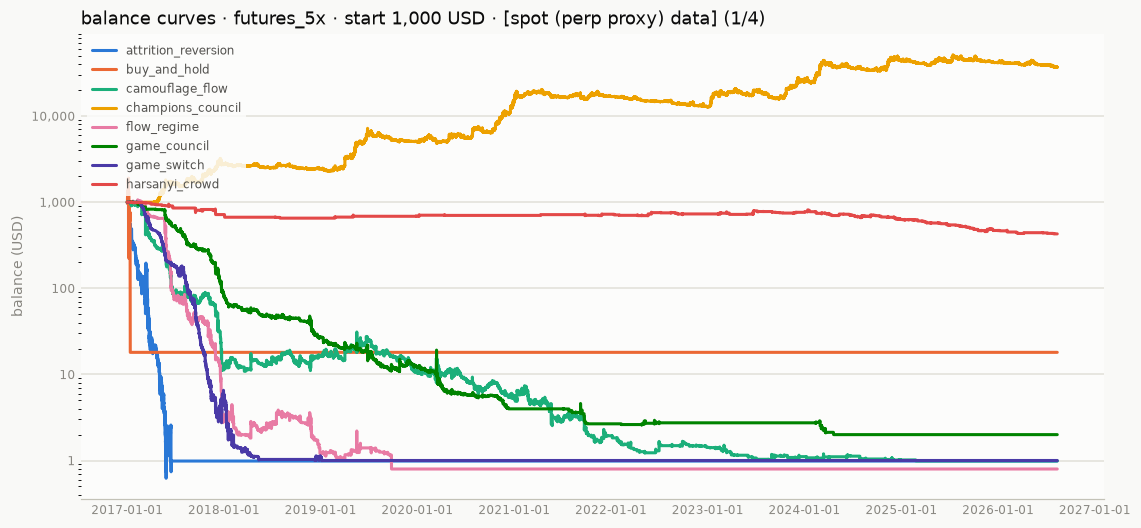
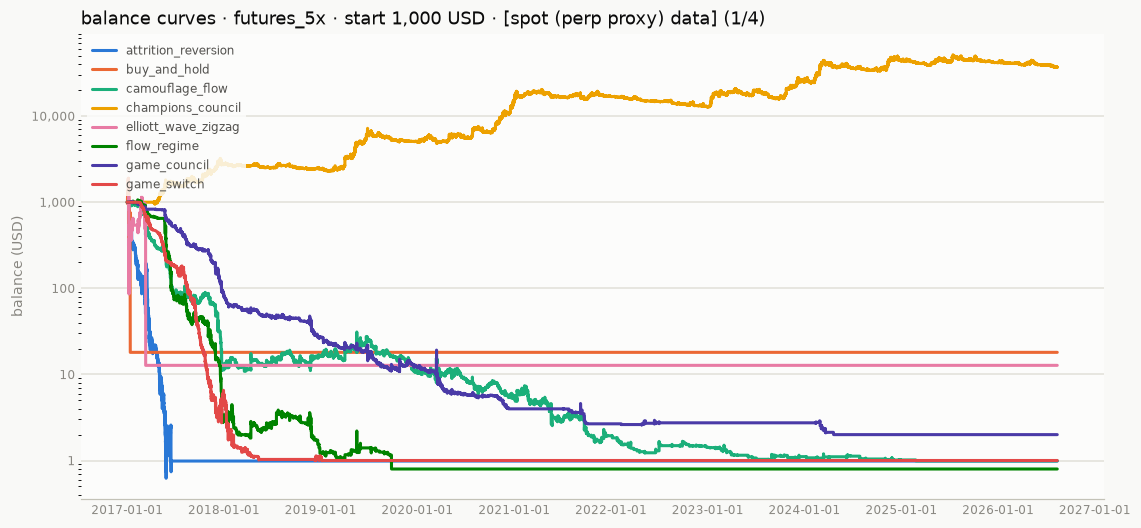
tradebot run: regenerate comparison table for elliott_wave_zigzag (R-156)
Full matrix, both markets, $1,000 start. elliott_wave_zigzag lands at
#10/26 on spot ($5,027) and near the bottom on futures_5x ($12.75,
liquidated) -- registered as a documented negative result per B-10,
independent of rank. No other row changed.

Changed region(s): [[0.092, 0.2121, 0.9202, 0.9091], [0.8282, 0.4242, 0.9202, 0.4545]]

diff --git a/reports/comparison.md b/reports/comparison.md
@@ -17,30 +17,31 @@ Every comparison against `buy_and_hold` carries a 95% paired block-bootstrap int
 | 7 | [buy_and_hold](../src/tradebot/strategies/buy_and_hold.py) | 🟢 **$66.0K** | 💀 $18.05 | 1 | 📈 $65.0K | 84% ⚠ | benchmark | benchmark |
 | 8 | [champions_council](../src/tradebot/strategies/champions_council.py) | 🟢 $19.3K | 🟢 **$36.8K** | 261 | 📈 $35.8K | 37% | ≈ -1.20 [-4.06, +1.81] | ▲ -49.5pp [-54.7, -19.0] |
 | 9 | [hedge_experts](../src/tradebot/strategies/hedge_experts.py) | 🟢 **$13.3K** | 🔴 $258 | 2,044 | 📈 $12.3K | 59% ⚠ | ≈ -1.57 [-4.01, +0.96] | ▲ -24.1pp [-39.1, -3.0] |
-| 10 | [replicator_book](../src/tradebot/strategies/replicator_book.py) | 🟢 **$2,330** | 🔴 $10.58 | 713 | 📈 $1,330 | 38% | ≈ -3.31 [-6.86, +0.28] | ▲ -47.1pp [-57.9, -20.7] |
-| 11 | [universal_kelly](../src/tradebot/strategies/universal_kelly.py) | 🟢 **$1,276** | 🟢 $1,227 | 9 | 📈 $276 | 7% | ≈ -3.91 [-8.39, +0.44] | ▲ -76.6pp [-89.1, -52.9] |
-| 12 | [harsanyi_crowd](../src/tradebot/strategies/harsanyi_crowd.py) | 🔴 **$888** | 🔴 $429 | 91 | 📉 -$112 | 11% | ≈ -4.28 [-8.88, +0.23] | ▲ -71.9pp [-85.6, -46.0] |
-| 13 | [overshoot_fade](../src/tradebot/strategies/overshoot_fade.py) | 🔴 **$662** | 🔴 $33.52 | 189 | 📉 -$338 | 37% | ▼ -4.57 [-9.13, -0.07] | ▲ -46.6pp [-68.5, -19.6] |
-| 14 | [camouflage_flow](../src/tradebot/strategies/camouflage_flow.py) | 🔴 **$548** | 🔴 $0.99 | 802 | 📉 -$452 | 53% ⚠ | ▼ -4.76 [-9.23, -0.29] | ▲ -31.4pp [-57.7, -2.5] |
-| 15 | [stealth_trend](../src/tradebot/strategies/stealth_trend.py) | 🔴 **$465** | 🔴 $0.38 | 1,605 | 📉 -$535 | 55% ⚠ | ▼ -4.92 [-9.26, -0.76] | ≈ -29.0pp [-43.9, +12.1] |
-| 16 | [flow_regime](../src/tradebot/strategies/flow_regime.py) | 🔴 **$447** | 🔴 $0.80 | 1,184 | 📉 -$553 | 56% ⚠ | ▼ -4.96 [-9.43, -0.54] | ≈ -27.3pp [-47.2, +6.3] |
-| 17 | [game_council](../src/tradebot/strategies/game_council.py) | 🔴 **$284** | 🔴 $2.00 | 2,541 | 📉 -$716 | 72% ⚠ | ▼ -5.42 [-9.97, -0.95] | ≈ -11.5pp [-25.9, +12.4] |
-| 18 | [minority_oracle](../src/tradebot/strategies/minority_oracle.py) | 🔴 **$53.36** | 🔴 $3.83 | 9,039 | 📉 -$947 | 95% ⚠ | ▼ -7.09 [-11.60, -2.52] | ≈ +11.5pp [-3.8, +35.9] |
-| 19 | [game_switch](../src/tradebot/strategies/game_switch.py) | 🔴 **$5.00** | 🔴 $1.00 | 6,672 | 📉 -$995 | 99% ⚠ | ▼ -9.45 [-15.38, -4.06] | ▼ +16.3pp [+1.0, +39.3] |
-| 20 | [regret_grid](../src/tradebot/strategies/regret_grid.py) | 🔴 **$5.00** | 🔴 $1.00 | 3,461 | 📉 -$995 | 100% ⚠ | ▼ -9.46 [-16.20, -3.49] | ▼ +16.3pp [+0.9, +39.9] |
-| 21 | [tft_trend](../src/tradebot/strategies/tft_trend.py) | 🔴 **$4.99** | 🔴 $1.00 | 2,538 | 📉 -$995 | 100% ⚠ | ▼ -9.46 [-14.88, -4.58] | ▼ +16.3pp [+3.0, +39.9] |
-| 22 | [macd_cross](../src/tradebot/strategies/macd_cross.py) | 🔴 **$4.99** | 🔴 $1.00 | 4,301 | 📉 -$995 | 100% ⚠ | ▼ -9.47 [-16.93, -3.21] | ≈ +16.4pp [-1.4, +40.0] |
-| 23 | [macd_rsi](../src/tradebot/strategies/macd_rsi.py) | 🔴 **$4.96** | 🔴 $0.94 | 2,454 | 📉 -$995 | 100% ⚠ | ▼ -9.46 [-15.00, -4.40] | ▼ +16.3pp [+2.6, +39.6] |
-| 24 | [attrition_reversion](../src/tradebot/strategies/attrition_reversion.py) | 🔴 **$4.94** | 🔴 $0.99 | 2,930 | 📉 -$995 | 100% ⚠ | ▼ -9.47 [-14.55, -4.69] | ▼ +16.3pp [+3.1, +39.1] |
-| 25 | [rsi_reversion](../src/tradebot/strategies/rsi_reversion.py) | 🔴 **$4.85** | 🔴 $0.77 | 4,464 | 📉 -$995 | 100% ⚠ | ▼ -9.49 [-13.24, -5.78] | ▼ +16.7pp [+3.5, +39.8] |
+| 10 | [elliott_wave_zigzag](../src/tradebot/strategies/elliott_wave_zigzag.py) | 🟢 **$5,027** | 💀 $12.75 | 162 | 📈 $4,027 | 44% | ≈ -2.54 [-6.51, +1.49] | ≈ -43.8pp [-50.7, +2.9] |
+| 11 | [replicator_book](../src/tradebot/strategies/replicator_book.py) | 🟢 **$2,330** | 🔴 $10.58 | 713 | 📈 $1,330 | 38% | ≈ -3.31 [-6.86, +0.28] | ▲ -47.1pp [-57.9, -20.7] |
+| 12 | [universal_kelly](../src/tradebot/strategies/universal_kelly.py) | 🟢 **$1,276** | 🟢 $1,227 | 9 | 📈 $276 | 7% | ≈ -3.91 [-8.39, +0.44] | ▲ -76.6pp [-89.1, -52.9] |
+| 13 | [harsanyi_crowd](../src/tradebot/strategies/harsanyi_crowd.py) | 🔴 **$888** | 🔴 $429 | 91 | 📉 -$112 | 11% | ≈ -4.28 [-8.88, +0.23] | ▲ -71.9pp [-85.6, -46.0] |
+| 14 | [overshoot_fade](../src/tradebot/strategies/overshoot_fade.py) | 🔴 **$662** | 🔴 $33.52 | 189 | 📉 -$338 | 37% | ▼ -4.57 [-9.13, -0.07] | ▲ -46.6pp [-68.5, -19.6] |
+| 15 | [camouflage_flow](../src/tradebot/strategies/camouflage_flow.py) | 🔴 **$548** | 🔴 $0.99 | 802 | 📉 -$452 | 53% ⚠ | ▼ -4.76 [-9.23, -0.29] | ▲ -31.4pp [-57.7, -2.5] |
+| 16 | [stealth_trend](../src/tradebot/strategies/stealth_trend.py) | 🔴 **$465** | 🔴 $0.38 | 1,605 | 📉 -$535 | 55% ⚠ | ▼ -4.92 [-9.26, -0.76] | ≈ -29.0pp [-43.9, +12.1] |
+| 17 | [flow_regime](../src/tradebot/strategies/flow_regime.py) | 🔴 **$447** | 🔴 $0.80 | 1,184 | 📉 -$553 | 56% ⚠ | ▼ -4.96 [-9.43, -0.54] | ≈ -27.3pp [-47.2, +6.3] |
+| 18 | [game_council](../src/tradebot/strategies/game_council.py) | 🔴 **$284** | 🔴 $2.00 | 2,541 | 📉 -$716 | 72% ⚠ | ▼ -5.42 [-9.97, -0.95] | ≈ -11.5pp [-25.9, +12.4] |
+| 19 | [minority_oracle](../src/tradebot/strategies/minority_oracle.py) | 🔴 **$53.36** | 🔴 $3.83 | 9,039 | 📉 -$947 | 95% ⚠ | ▼ -7.09 [-11.60, -2.52] | ≈ +11.5pp [-3.8, +35.9] |
+| 20 | [game_switch](../src/tradebot/strategies/game_switch.py) | 🔴 **$5.00** | 🔴 $1.00 | 6,672 | 📉 -$995 | 99% ⚠ | ▼ -9.45 [-15.38, -4.06] | ▼ +16.3pp [+1.0, +39.3] |
+| 21 | [regret_grid](../src/tradebot/strategies/regret_grid.py) | 🔴 **$5.00** | 🔴 $1.00 | 3,461 | 📉 -$995 | 100% ⚠ | ▼ -9.46 [-16.20, -3.49] | ▼ +16.3pp [+0.9, +39.9] |
+| 22 | [tft_trend](../src/tradebot/strategies/tft_trend.py) | 🔴 **$4.99** | 🔴 $1.00 | 2,538 | 📉 -$995 | 100% ⚠ | ▼ -9.46 [-14.88, -4.58] | ▼ +16.3pp [+3.0, +39.9] |
+| 23 | [macd_cross](../src/tradebot/strategies/macd_cross.py) | 🔴 **$4.99** | 🔴 $1.00 | 4,301 | 📉 -$995 | 100% ⚠ | ▼ -9.47 [-16.93, -3.21] | ≈ +16.4pp [-1.4, +40.0] |
+| 24 | [macd_rsi](../src/tradebot/strategies/macd_rsi.py) | 🔴 **$4.96** | 🔴 $0.94 | 2,454 | 📉 -$995 | 100% ⚠ | ▼ -9.46 [-15.00, -4.40] | ▼ +16.3pp [+2.6, +39.6] |
+| 25 | [attrition_reversion](../src/tradebot/strategies/attrition_reversion.py) | 🔴 **$4.94** | 🔴 $0.99 | 2,930 | 📉 -$995 | 100% ⚠ | ▼ -9.47 [-14.55, -4.69] | ▼ +16.3pp [+3.1, +39.1] |
+| 26 | [rsi_reversion](../src/tradebot/strategies/rsi_reversion.py) | 🔴 **$4.85** | 🔴 $0.77 | 4,464 | 📉 -$995 | 100% ⚠ | ▼ -9.49 [-13.24, -5.78] | ▼ +16.7pp [+3.5, +39.8] |
 
 _Balances from a $1,000 start · bold = the strategy's better market · 🟢 profit · 🔴 loss · 💀 liquidated · ⚠ drawdown over 50%. Trades, profit and max drawdown describe that market._
 
 _The last two columns are the only ones that answer **"is this difference real?"** Both are paired differences against `buy_and_hold` on spot over the full period (3,510 daily observations), each with a 95% stationary block-bootstrap interval — 30-day mean block, 2,000 resamples, the identical resample applied to both strategies so the market's own variance cancels instead of swamping the gap. ▲ / ▼ = the interval excludes zero and the strategy is better / worse; **≈ = it contains zero, so the difference from simply holding is not established**._
 
-_**Growth**, not Sharpe, because final balance is what this table ranks by — and the two disagree. **spot**, because leveraged buy-and-hold is a stress case rather than a benchmark: it is liquidated in early 2017, and an account that cannot draw down further is not something to draw down less than (R-22). On this run **0 of 24** strategies are distinguishably better than holding on growth; the drawdown column is where the project's findings actually live._
+_**Growth**, not Sharpe, because final balance is what this table ranks by — and the two disagree. **spot**, because leveraged buy-and-hold is a stress case rather than a benchmark: it is liquidated in early 2017, and an account that cannot draw down further is not something to draw down less than (R-22). On this run **0 of 25** strategies are distinguishably better than holding on growth; the drawdown column is where the project's findings actually live._
 
-_Adjacent steps down this ranking that survive the same test: **3 of 24** on spot · **2 of 24** on futures_5x. The order is a display convention, not a result — read the table as buckets._
+_Adjacent steps down this ranking that survive the same test: **3 of 25** on spot · **2 of 25** on futures_5x. The order is a display convention, not a result — read the table as buckets._
 
 _Regenerate with `python scripts/inference.py`; the numbers live in `reports/inference/bootstrap.csv`._
 
@@ -62,6 +63,7 @@ _Regenerate with `python scripts/inference.py`; the numbers live in `reports/inf
 | [hedge_experts](../src/tradebot/strategies/hedge_experts.py) | $258 | -$742 | -74.25% | 4103 | 11.4 | $53.0K | -$15.9K | 99.9 | 0.96 | 99.6 | $52.1K |  | ☠ +1.14 [+0.15, +1.88] | ☠ +0.9pp [-1.6, +100.0] | ☠ +2.82 [-10.84, +18.21] | 0.62 |
 | [overshoot_fade](../src/tradebot/strategies/overshoot_fade.py) | $33.52 | -$966 | -96.65% | 341 | 57.2 | $71.14 | -$115 | 97.0 | -1.16 | 0.3 | $309 |  | ☠ -0.92 [-1.75, -0.17] | ☠ -2.1pp [-14.5, +99.3] | ☠ +0.78 [-4.96, +11.00] | 0.53 |
 | [buy_and_hold](../src/tradebot/strategies/buy_and_hold.py) | $18.05 | -$982 | -98.20% | 1 | 0.0 | -$982 | -$982 | 99.0 | -0.19 | 0.3 | $4.50 | yes | benchmark | benchmark | benchmark | 0.00 |
+| [elliott_wave_zigzag](../src/tradebot/strategies/elliott_wave_zigzag.py) | $12.75 | -$987 | -98.73% | 5 | 40.0 | $405 | -$694 | 98.9 | -0.04 | 0.9 | $17.31 | yes | ☠ +0.07 [-0.56, +0.68] | ☠ -0.2pp [-37.2, +100.0] | ☠ -0.19 [-11.50, +10.42] | 0.45 |
 | [replicator_book](../src/tradebot/strategies/replicator_book.py) | $10.58 | -$989 | -98.94% | 1427 | 24.4 | $1,847 | -$681 | 99.8 | 0.33 | 99.6 | $2,215 |  | ☠ +0.54 [-0.24, +1.13] | ☠ +0.7pp [-4.9, +100.0] | ☠ -0.38 [-9.36, +11.50] | 0.43 |
 | [minority_oracle](../src/tradebot/strategies/minority_oracle.py) | $3.83 | -$996 | -99.62% | 7065 | 25.4 | $11.19 | -$10.12 | 99.6 | -8.29 | 0.9 | $1,180 |  | ☠ -4.70 [-6.42, -3.15] | ☠ +0.6pp [-4.9, +100.0] | ☠ -1.39 [-8.39, +9.13] | 0.33 |
 | [game_council](../src/tradebot/strategies/game_council.py) | $2.00 | -$998 | -99.80% | 2494 | 33.8 | $17.63 | -$55.75 | 99.8 | -1.66 | 2.5 | $297 |  | ☠ -1.84 [-2.93, -1.10] | ☠ +0.8pp [-1.4, +100.0] | ☠ -2.04 [-8.58, +8.12] | 0.27 |
@@ -89,6 +91,7 @@ _Regenerate with `python scripts/inference.py`; the numbers live in `reports/inf
 | [kelly_regime_ev](../src/tradebot/strategies/kelly_regime_ev.py) | $40.9K | $39.9K | +3986.30% | 81 | 25.9 | $15.1K | -$3,482 | 44.4 | 1.31 | 57.4 | $2,403 |  | ≈ +0.37 [-0.07, +0.81] | ▲ -40.0pp [-55.5, -16.3] | ≈ -0.45 [-3.28, +2.58] | 0.39 |
 | [champions_council](../src/tradebot/strategies/champions_council.py) | $19.3K | $18.3K | +1832.14% | 131 | 14.6 | $8,520 | -$1,150 | 34.6 | 1.23 | 87.9 | $4,050 |  | ≈ +0.25 [-0.18, +0.68] | ▲ -49.5pp [-54.7, -19.0] | ≈ -1.20 [-4.06, +1.81] | 0.23 |
 | [hedge_experts](../src/tradebot/strategies/hedge_experts.py) | $13.3K | $12.3K | +1227.66% | 2044 | 7.5 | $11.0K | -$1,469 | 59.3 | 0.87 | 88.0 | $16.7K |  | ≈ -0.07 [-0.42, +0.29] | ▲ -24.1pp [-39.1, -3.0] | ≈ -1.57 [-4.01, +0.96] | 0.11 |
+| [elliott_wave_zigzag](../src/tradebot/strategies/elliott_wave_zigzag.py) | $5,027 | $4,027 | +402.68% | 162 | 54.7 | $1,469 | -$1,026 | 43.6 | 0.63 | 25.7 | $1,089 |  | ≈ -0.31 [-0.99, +0.36] | ≈ -43.8pp [-50.7, +2.9] | ≈ -2.54 [-6.51, +1.49] | 0.11 |
 | [replicator_book](../src/tradebot/strategies/replicator_book.py) | $2,330 | $1,330 | +132.98% | 713 | 26.2 | $451 | -$90.85 | 38.4 | 0.52 | 53.0 | $1,630 |  | ▼ -0.44 [-0.86, -0.06] | ▲ -47.1pp [-57.9, -20.7] | ≈ -3.31 [-6.86, +0.28] | 0.03 |
 | [universal_kelly](../src/tradebot/strategies/universal_kelly.py) | $1,276 | $276 | +27.60% | 9 | 88.9 | $131 | -$6.99 | 7.4 | 0.62 | 22.7 | $1.33 |  | ≈ -0.28 [-0.88, +0.32] | ▲ -76.6pp [-89.1, -52.9] | ≈ -3.91 [-8.39, +0.44] | 0.04 |
 | [harsanyi_crowd](../src/tradebot/strategies/harsanyi_crowd.py) | $888 | -$112 | -11.19% | 91 | 28.6 | $7.93 | -$13.89 | 11.4 | -0.82 | 0.1 | $90.02 |  | ▼ -2.03 [-2.96, -1.02] | ▲ -71.9pp [-85.6, -46.0] | ≈ -4.28 [-8.88, +0.23] | 0.03 |

diff --git a/README.md b/README.md
@@ -193,30 +193,31 @@ _Period: 2017-01-01 to 2026-08-12 (1,010,889 x 5m bars) · data: real, spot (per
 | 7 | [buy_and_hold](src/tradebot/strategies/buy_and_hold.py) | 🟢 **$66.0K** | 💀 $18.05 | 1 | 📈 $65.0K | 84% ⚠ | benchmark | benchmark |
 | 8 | [champions_council](src/tradebot/strategies/champions_council.py) | 🟢 $19.3K | 🟢 **$36.8K** | 261 | 📈 $35.8K | 37% | ≈ -1.20 [-4.06, +1.81] | ▲ -49.5pp [-54.7, -19.0] |
 | 9 | [hedge_experts](src/tradebot/strategies/hedge_experts.py) | 🟢 **$13.3K** | 🔴 $258 | 2,044 | 📈 $12.3K | 59% ⚠ | ≈ -1.57 [-4.01, +0.96] | ▲ -24.1pp [-39.1, -3.0] |
-| 10 | [replicator_book](src/tradebot/strategies/replicator_book.py) | 🟢 **$2,330** | 🔴 $10.58 | 713 | 📈 $1,330 | 38% | ≈ -3.31 [-6.86, +0.28] | ▲ -47.1pp [-57.9, -20.7] |
-| 11 | [universal_kelly](src/tradebot/strategies/universal_kelly.py) | 🟢 **$1,276** | 🟢 $1,227 | 9 | 📈 $276 | 7% | ≈ -3.91 [-8.39, +0.44] | ▲ -76.6pp [-89.1, -52.9] |
-| 12 | [harsanyi_crowd](src/tradebot/strategies/harsanyi_crowd.py) | 🔴 **$888** | 🔴 $429 | 91 | 📉 -$112 | 11% | ≈ -4.28 [-8.88, +0.23] | ▲ -71.9pp [-85.6, -46.0] |
-| 13 | [overshoot_fade](src/tradebot/strategies/overshoot_fade.py) | 🔴 **$662** | 🔴 $33.52 | 189 | 📉 -$338 | 37% | ▼ -4.57 [-9.13, -0.07] | ▲ -46.6pp [-68.5, -19.6] |
-| 14 | [camouflage_flow](src/tradebot/strategies/camouflage_flow.py) | 🔴 **$548** | 🔴 $0.99 | 802 | 📉 -$452 | 53% ⚠ | ▼ -4.76 [-9.23, -0.29] | ▲ -31.4pp [-57.7, -2.5] |
-| 15 | [stealth_trend](src/tradebot/strategies/stealth_trend.py) | 🔴 **$465** | 🔴 $0.38 | 1,605 | 📉 -$535 | 55% ⚠ | ▼ -4.92 [-9.26, -0.76] | ≈ -29.0pp [-43.9, +12.1] |
-| 16 | [flow_regime](src/tradebot/strategies/flow_regime.py) | 🔴 **$447** | 🔴 $0.80 | 1,184 | 📉 -$553 | 56% ⚠ | ▼ -4.96 [-9.43, -0.54] | ≈ -27.3pp [-47.2, +6.3] |
-| 17 | [game_council](src/tradebot/strategies/game_council.py) | 🔴 **$284** | 🔴 $2.00 | 2,541 | 📉 -$716 | 72% ⚠ | ▼ -5.42 [-9.97, -0.95] | ≈ -11.5pp [-25.9, +12.4] |
-| 18 | [minority_oracle](src/tradebot/strategies/minority_oracle.py) | 🔴 **$53.36** | 🔴 $3.83 | 9,039 | 📉 -$947 | 95% ⚠ | ▼ -7.09 [-11.60, -2.52] | ≈ +11.5pp [-3.8, +35.9] |
-| 19 | [game_switch](src/tradebot/strategies/game_switch.py) | 🔴 **$5.00** | 🔴 $1.00 | 6,672 | 📉 -$995 | 99% ⚠ | ▼ -9.45 [-15.38, -4.06] | ▼ +16.3pp [+1.0, +39.3] |
-| 20 | [regret_grid](src/tradebot/strategies/regret_grid.py) | 🔴 **$5.00** | 🔴 $1.00 | 3,461 | 📉 -$995 | 100% ⚠ | ▼ -9.46 [-16.20, -3.49] | ▼ +16.3pp [+0.9, +39.9] |
-| 21 | [tft_trend](src/tradebot/strategies/tft_trend.py) | 🔴 **$4.99** | 🔴 $1.00 | 2,538 | 📉 -$995 | 100% ⚠ | ▼ -9.46 [-14.88, -4.58] | ▼ +16.3pp [+3.0, +39.9] |
-| 22 | [macd_cross](src/tradebot/strategies/macd_cross.py) | 🔴 **$4.99** | 🔴 $1.00 | 4,301 | 📉 -$995 | 100% ⚠ | ▼ -9.47 [-16.93, -3.21] | ≈ +16.4pp [-1.4, +40.0] |
-| 23 | [macd_rsi](src/tradebot/strategies/macd_rsi.py) | 🔴 **$4.96** | 🔴 $0.94 | 2,454 | 📉 -$995 | 100% ⚠ | ▼ -9.46 [-15.00, -4.40] | ▼ +16.3pp [+2.6, +39.6] |
-| 24 | [attrition_reversion](src/tradebot/strategies/attrition_reversion.py) | 🔴 **$4.94** | 🔴 $0.99 | 2,930 | 📉 -$995 | 100% ⚠ | ▼ -9.47 [-14.55, -4.69] | ▼ +16.3pp [+3.1, +39.1] |
-| 25 | [rsi_reversion](src/tradebot/strategies/rsi_reversion.py) | 🔴 **$4.85** | 🔴 $0.77 | 4,464 | 📉 -$995 | 100% ⚠ | ▼ -9.49 [-13.24, -5.78] | ▼ +16.7pp [+3.5, +39.8] |
+| 10 | [elliott_wave_zigzag](src/tradebot/strategies/elliott_wave_zigzag.py) | 🟢 **$5,027** | 💀 $12.75 | 162 | 📈 $4,027 | 44% | ≈ -2.54 [-6.51, +1.49] | ≈ -43.8pp [-50.7, +2.9] |
+| 11 | [replicator_book](src/tradebot/strategies/replicator_book.py) | 🟢 **$2,330** | 🔴 $10.58 | 713 | 📈 $1,330 | 38% | ≈ -3.31 [-6.86, +0.28] | ▲ -47.1pp [-57.9, -20.7] |
+| 12 | [universal_kelly](src/tradebot/strategies/universal_kelly.py) | 🟢 **$1,276** | 🟢 $1,227 | 9 | 📈 $276 | 7% | ≈ -3.91 [-8.39, +0.44] | ▲ -76.6pp [-89.1, -52.9] |
+| 13 | [harsanyi_crowd](src/tradebot/strategies/harsanyi_crowd.py) | 🔴 **$888** | 🔴 $429 | 91 | 📉 -$112 | 11% | ≈ -4.28 [-8.88, +0.23] | ▲ -71.9pp [-85.6, -46.0] |
+| 14 | [overshoot_fade](src/tradebot/strategies/overshoot_fade.py) | 🔴 **$662** | 🔴 $33.52 | 189 | 📉 -$338 | 37% | ▼ -4.57 [-9.13, -0.07] | ▲ -46.6pp [-68.5, -19.6] |
+| 15 | [camouflage_flow](src/tradebot/strategies/camouflage_flow.py) | 🔴 **$548** | 🔴 $0.99 | 802 | 📉 -$452 | 53% ⚠ | ▼ -4.76 [-9.23, -0.29] | ▲ -31.4pp [-57.7, -2.5] |
+| 16 | [stealth_trend](src/tradebot/strategies/stealth_trend.py) | 🔴 **$465** | 🔴 $0.38 | 1,605 | 📉 -$535 | 55% ⚠ | ▼ -4.92 [-9.26, -0.76] | ≈ -29.0pp [-43.9, +12.1] |
+| 17 | [flow_regime](src/tradebot/strategies/flow_regime.py) | 🔴 **$447** | 🔴 $0.80 | 1,184 | 📉 -$553 | 56% ⚠ | ▼ -4.96 [-9.43, -0.54] | ≈ -27.3pp [-47.2, +6.3] |
+| 18 | [game_council](src/tradebot/strategies/game_council.py) | 🔴 **$284** | 🔴 $2.00 | 2,541 | 📉 -$716 | 72% ⚠ | ▼ -5.42 [-9.97, -0.95] | ≈ -11.5pp [-25.9, +12.4] |
+| 19 | [minority_oracle](src/tradebot/strategies/minority_oracle.py) | 🔴 **$53.36** | 🔴 $3.83 | 9,039 | 📉 -$947 | 95% ⚠ | ▼ -7.09 [-11.60, -2.52] | ≈ +11.5pp [-3.8, +35.9] |
+| 20 | [game_switch](src/tradebot/strategies/game_switch.py) | 🔴 **$5.00** | 🔴 $1.00 | 6,672 | 📉 -$995 | 99% ⚠ | ▼ -9.45 [-15.38, -4.06] | ▼ +16.3pp [+1.0, +39.3] |
+| 21 | [regret_grid](src/tradebot/strategies/regret_grid.py) | 🔴 **$5.00** | 🔴 $1.00 | 3,461 | 📉 -$995 | 100% ⚠ | ▼ -9.46 [-16.20, -3.49] | ▼ +16.3pp [+0.9, +39.9] |
+| 22 | [tft_trend](src/tradebot/strategies/tft_trend.py) | 🔴 **$4.99** | 🔴 $1.00 | 2,538 | 📉 -$995 | 100% ⚠ | ▼ -9.46 [-14.88, -4.58] | ▼ +16.3pp [+3.0, +39.9] |
+| 23 | [macd_cross](src/tradebot/strategies/macd_cross.py) | 🔴 **$4.99** | 🔴 $1.00 | 4,301 | 📉 -$995 | 100% ⚠ | ▼ -9.47 [-16.93, -3.21] | ≈ +16.4pp [-1.4, +40.0] |
+| 24 | [macd_rsi](src/tradebot/strategies/macd_rsi.py) | 🔴 **$4.96** | 🔴 $0.94 | 2,454 | 📉 -$995 | 100% ⚠ | ▼ -9.46 [-15.00, -4.40] | ▼ +16.3pp [+2.6, +39.6] |
+| 25 | [attrition_reversion](src/tradebot/strategies/attrition_reversion.py) | 🔴 **$4.94** | 🔴 $0.99 | 2,930 | 📉 -$995 | 100% ⚠ | ▼ -9.47 [-14.55, -4.69] | ▼ +16.3pp [+3.1, +39.1] |
+| 26 | [rsi_reversion](src/tradebot/strategies/rsi_reversion.py) | 🔴 **$4.85** | 🔴 $0.77 | 4,464 | 📉 -$995 | 100% ⚠ | ▼ -9.49 [-13.24, -5.78] | ▼ +16.7pp [+3.5, +39.8] |
 
 _Balances from a $1,000 start · bold = the strategy's better market · 🟢 profit · 🔴 loss · 💀 liquidated · ⚠ drawdown over 50%. Trades, profit and max drawdown describe that market._
 
 _The last two columns are the only ones that answer **"is this difference real?"** Both are paired differences against `buy_and_hold` on spot over the full period (3,510 daily observations), each with a 95% stationary block-bootstrap interval — 30-day mean block, 2,000 resamples, the identical resample applied to both strategies so the market's own variance cancels instead of swamping the gap. ▲ / ▼ = the interval excludes zero and the strategy is better / worse; **≈ = it contains zero, so the difference from simply holding is not established**._
 
-_**Growth**, not Sharpe, because final balance is what this table ranks by — and the two disagree. **spot**, because leveraged buy-and-hold is a stress case rather than a benchmark: it is liquidated in early 2017, and an account that cannot draw down further is not something to draw down less than (R-22). On this run **0 of 24** strategies are distinguishably better than holding on growth; the drawdown column is where the project's findings actually live._
+_**Growth**, not Sharpe, because final balance is what this table ranks by — and the two disagree. **spot**, because leveraged buy-and-hold is a stress case rather than a benchmark: it is liquidated in early 2017, and an account that cannot draw down further is not something to draw down less than (R-22). On this run **0 of 25** strategies are distinguishably better than holding on growth; the drawdown column is where the project's findings actually live._
 
-_Adjacent steps down this ranking that survive the same test: **3 of 24** on spot · **2 of 24** on futures_5x. The order is a display convention, not a result — read the table as buckets._
+_Adjacent steps down this ranking that survive the same test: **3 of 25** on spot · **2 of 25** on futures_5x. The order is a display convention, not a result — read the table as buckets._
 
 _Regenerate with `python scripts/inference.py`; the numbers live in `reports/inference/bootstrap.csv`._
 <!-- comparison:end -->
